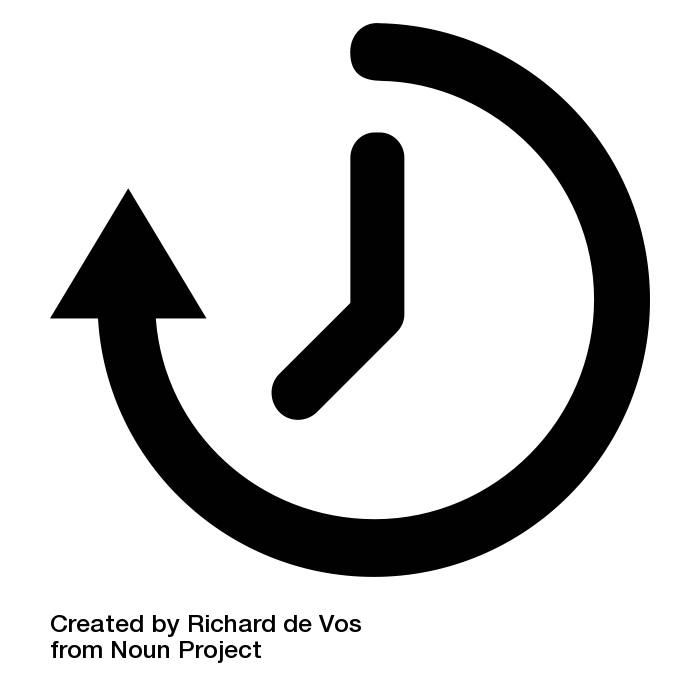
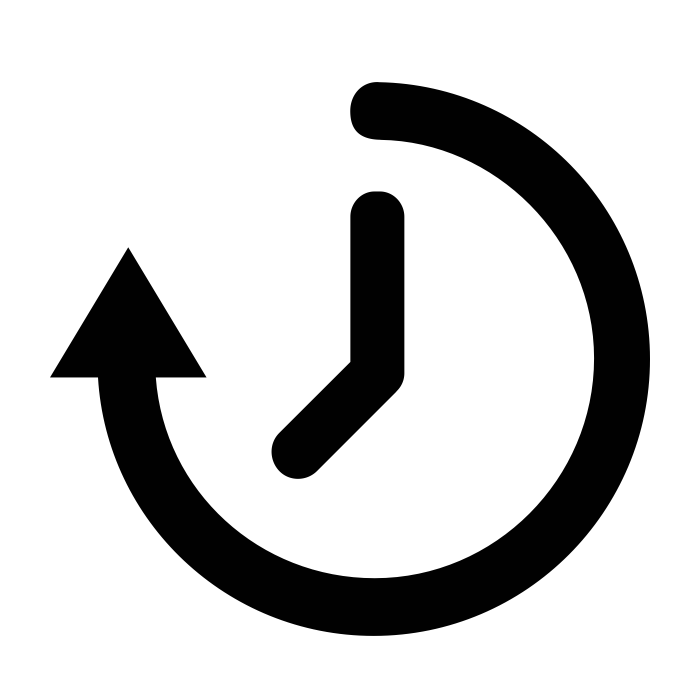
init

Changed region(s): [[0.06, 0.03, 0.93, 0.96]]

diff --git a/app/popup.html b/app/popup.html
@@ -11,7 +11,7 @@
     <!-- endbuild -->
   </head>
   <body>
-    <h1>'Allo, 'Allo!</h1>
+    <p>wasted: 2 hours</p>
 
     <!-- build:js scripts/popup-vendor.js -->
     <!-- bower:js -->

diff --git a/README.md b/README.md
@@ -1,2 +1,15 @@
-# time_wasted
+# Time Wasted
 Chrome extension to track how much time wasted on Social Networking Sites
+
+# Contribute
+    # install packages
+    $ npm install
+
+    # build extension
+    $ gulp build
+
+# License
+MIT
+
+# Credit
+Icon:
